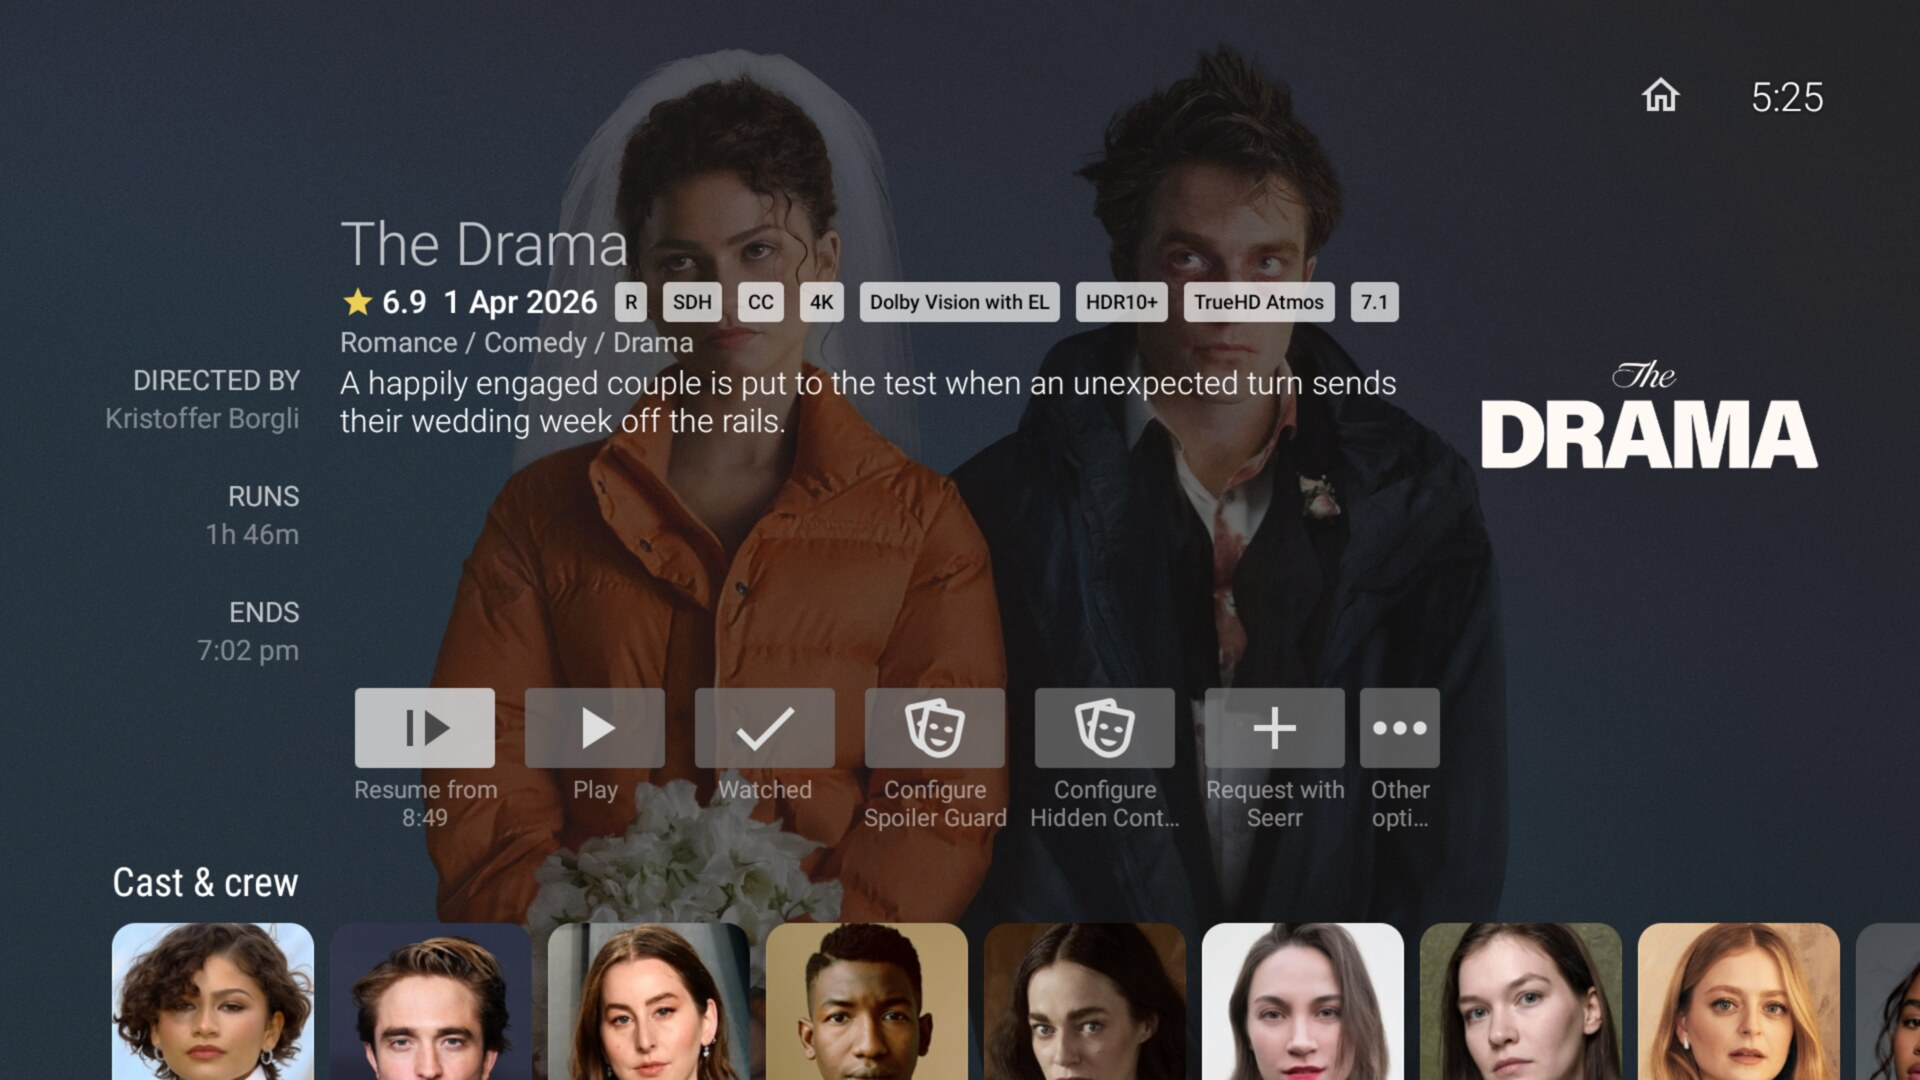
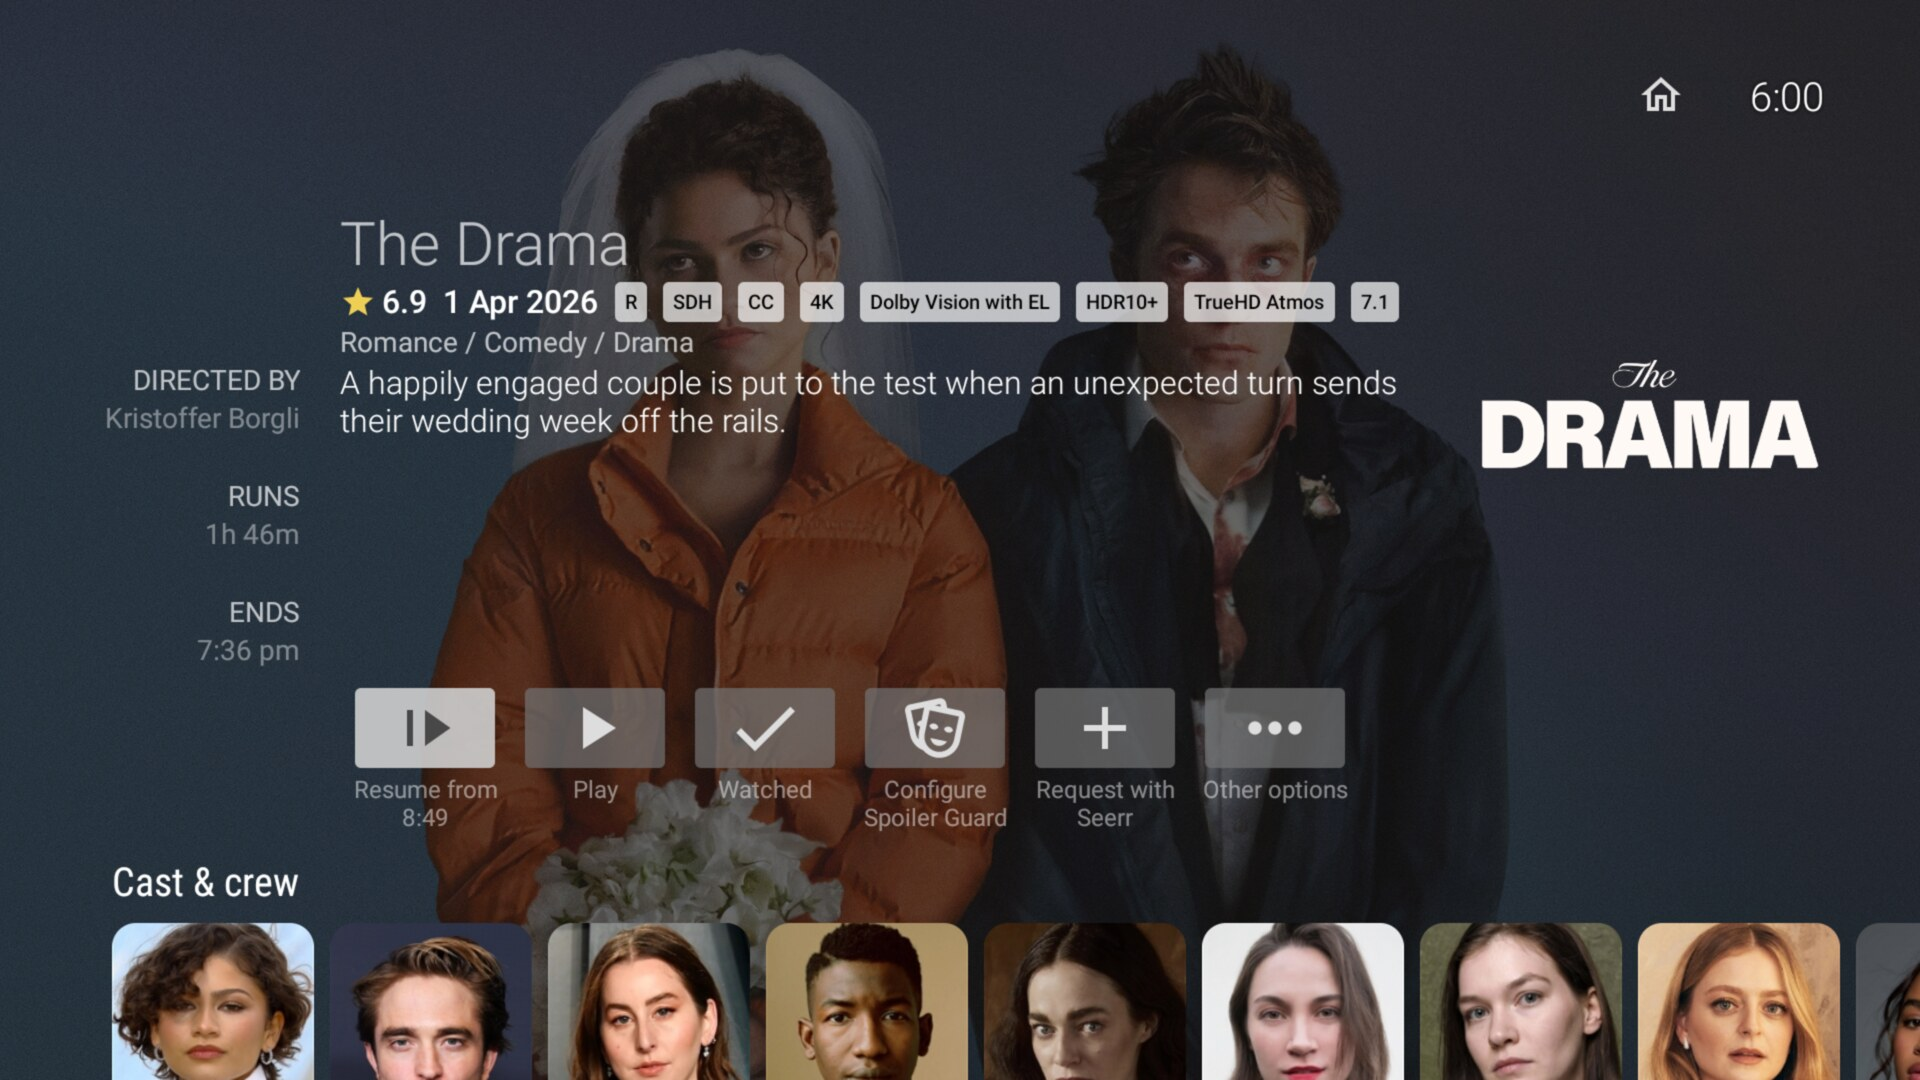
Stop offering Request for owned titles, never clip a button label (#14)
Two user-reported issues on the item detail screen.

A Seerr title linked to a Jellyfin item is in the library whatever Seerr
reports its status as. The cards already resolved that, but the detail
mapper still trusted the raw wire status, so an owned title kept its
Request action.

Contribution labels come from the server and are much longer than the
app's own, so they overflowed the two-line button field and broke
mid-word. Actions are now measured against the real button dimensions
and only placed in the row when they render whole; the rest go to
"Other options".

Changed region(s): [[0.5312, 0.6111, 0.75, 0.7639], [0.9062, 0.0611, 0.9688, 0.1222]]

diff --git a/app/src/main/java/org/jellyfin/androidtv/ui/itemdetail/CanopyItemDetailController.kt b/app/src/main/java/org/jellyfin/androidtv/ui/itemdetail/CanopyItemDetailController.kt
@@ -119,30 +119,24 @@ internal class CanopyItemDetailController(
 		if (value == null || (value.actions.isEmpty() && value.statuses.isEmpty())) {
 			overflowActions = emptyList()
 			fragment.setCanopyActionRow(null)
-			fragment.setCanopyActionButtons(emptyList())
-			fragment.setCanopyMenuActions(emptyList())
+			fragment.setCanopyActions(emptyList(), false)
 			return
 		}
 
 		when (placement) {
 			CanopyActionsPlacement.BUTTONS -> {
 				fragment.setCanopyActionRow(null)
-				fragment.setCanopyMenuActions(emptyList())
 				showInlineButtons(value)
 				return
 			}
 
 			CanopyActionsPlacement.OTHER_OPTIONS -> {
 				fragment.setCanopyActionRow(null)
-				fragment.setCanopyActionButtons(emptyList())
 				showMenuActions(value)
 				return
 			}
 
-			CanopyActionsPlacement.ROW -> {
-				fragment.setCanopyActionButtons(emptyList())
-				fragment.setCanopyMenuActions(emptyList())
-			}
+			CanopyActionsPlacement.ROW -> fragment.setCanopyActions(emptyList(), false)
 		}
 
 		val layout = CanopyActionLayout.create(value.actions)
@@ -186,39 +180,33 @@ internal class CanopyItemDetailController(
 	 * contributions carry no interaction; their state is visible in the
 	 * action dialogs, so they are only exposed via accessibility here.
 	 */
+	/**
+	 * Hands the actions to the details screen, which places as many as fit in
+	 * the button row and sends the rest to "Other options".
+	 */
 	private fun showInlineButtons(value: CanopyItemDetailSurface) {
 		overflowActions = emptyList()
-		val context = fragment.context ?: return
-		val buttonSize = Utils.convertDpToPixel(context, CANOPY_BUTTON_SIZE_DP)
-		val statusDescription = value.statuses.joinToString(separator = " · ") { it.label }
+		fragment.setCanopyActions(canopyActions(value), false)
+	}
 
-		val buttons = value.actions.map { action ->
-			TextUnderButton.create(
-				context,
-				action.icon.drawable,
-				buttonSize,
-				2,
-				action.label,
-			) {
-				coordinator.prepare(action.id)
-			}.apply {
+	/** Renders every action as an entry in the "Other options" popup menu. */
+	private fun showMenuActions(value: CanopyItemDetailSurface) {
+		overflowActions = emptyList()
+		fragment.setCanopyActions(canopyActions(value), true)
+	}
+
+	private fun canopyActions(value: CanopyItemDetailSurface): List<CanopyMenuAction> {
+		val statusDescription = value.statuses.joinToString(separator = " · ") { it.label }
+		return value.actions.map { action ->
+			CanopyMenuAction(
+				label = action.label,
+				iconRes = action.icon.drawable,
 				contentDescription = describedLabel(
 					describedLabel(action.label, action.description),
 					statusDescription.takeIf { it.isNotEmpty() },
-				)
-			}
+				),
+			) { coordinator.prepare(action.id) }
 		}
-		fragment.setCanopyActionButtons(buttons)
-	}
-
-	/** Renders actions as entries in the "Other options" popup menu. */
-	private fun showMenuActions(value: CanopyItemDetailSurface) {
-		overflowActions = emptyList()
-		fragment.setCanopyMenuActions(
-			value.actions.map { action ->
-				CanopyMenuAction(action.label) { coordinator.prepare(action.id) }
-			},
-		)
 	}
 
 	private fun showOverflow() {
@@ -325,8 +313,15 @@ internal fun dispatchCanopyRefresh(
 	if (CanopyRefreshTarget.ITEM_DETAIL_SURFACE in targets) onItemDetailSurface()
 }
 
+/**
+ * A Canopy action the details screen can present either as a button or as an
+ * entry in the overflow menu. The screen decides which, because only it knows
+ * how much room the button row has left.
+ */
 internal class CanopyMenuAction(
 	val label: String,
+	@androidx.annotation.DrawableRes val iconRes: Int,
+	val contentDescription: String,
 	private val onSelected: () -> Unit,
 ) {
 	fun run() = onSelected()

diff --git a/app/src/test/kotlin/integration/canopy/seerr/SeerrRepositoryTests.kt b/app/src/test/kotlin/integration/canopy/seerr/SeerrRepositoryTests.kt
@@ -387,6 +387,23 @@ class SeerrRepositoryTests : FunSpec({
 		results[1].status shouldBe SeerrMediaStatus.PENDING
 	}
 
+	test("details of an owned title are not requestable") {
+		val repository = SeerrRepository(
+			apiWith(
+				// Seerr reports "unknown" yet links a Jellyfin item: the title
+				// is in the library and must not be offered for request.
+				"/JellyfinCanopy/seerr/movie/550" to """
+					{"id": 550, "title": "Owned", "releaseDate": "1999-10-15",
+					 "mediaInfo": {"status": 1, "jellyfinMediaId": "0b67e975-99cb-4bf3-96d3-b13ec50365ff"}}
+				""".trimIndent(),
+			),
+		)
+
+		val details = repository.details(SeerrMediaType.MOVIE, 550).shouldNotBeNull()
+		details.item.status shouldBe SeerrMediaStatus.AVAILABLE
+		details.item.status.requestable shouldBe false
+	}
+
 	test("media status wire mapping") {
 		SeerrMediaStatus.fromWire(null) shouldBe SeerrMediaStatus.NOT_REQUESTED
 		SeerrMediaStatus.fromWire(1) shouldBe SeerrMediaStatus.NOT_REQUESTED

diff --git a/app/src/main/java/org/jellyfin/androidtv/integration/canopy/seerr/SeerrRepository.kt b/app/src/main/java/org/jellyfin/androidtv/integration/canopy/seerr/SeerrRepository.kt
@@ -496,8 +496,11 @@ internal class SeerrRepository(
 				year = (if (mediaType == SeerrMediaType.MOVIE) releaseDate else firstAirDate)
 					?.take(YEAR_LENGTH)?.toIntOrNull(),
 				posterUrl = posterPath?.toTmdbImageUrl(TMDB_POSTER_BASE),
-				status = SeerrMediaStatus.fromWire(mediaInfo?.status),
-				status4k = SeerrMediaStatus.fromWire(mediaInfo?.status4k),
+				// Same effective status the cards use: a title linked to a
+				// Jellyfin item is in the library whatever Seerr reports, and
+				// must not be offered for request again.
+				status = effectiveStatus(mediaInfo?.status, mediaInfo?.jellyfinMediaId),
+				status4k = effectiveStatus(mediaInfo?.status4k, mediaInfo?.jellyfinMediaId4k),
 				jellyfinMediaId = (mediaInfo?.jellyfinMediaId ?: mediaInfo?.jellyfinMediaId4k)?.toUUIDOrNull(),
 			),
 			overview = overview?.takeIf { it.isNotBlank() },

diff --git a/app/src/main/java/org/jellyfin/androidtv/ui/seerr/SeerrItemFragment.kt b/app/src/main/java/org/jellyfin/androidtv/ui/seerr/SeerrItemFragment.kt
@@ -314,6 +314,11 @@ class SeerrItemFragment : Fragment() {
 		imdb?.let { add(getString(R.string.canopy_seerr_rating_imdb, it)) }
 	}.joinToString(separator = " · ")
 
+	/**
+	 * Seasons the library is missing are still worth requesting for a series
+	 * that is only partly present, but a title the library already holds in
+	 * full never is.
+	 */
 	private fun hasRequestableSeasons(details: SeerrItemDetails, is4k: Boolean = false): Boolean =
 		details.item.mediaType == SeerrMediaType.TV && details.seasons.any { it.statusFor(is4k).requestable }
 

diff --git a/app/src/main/java/org/jellyfin/androidtv/ui/itemdetail/FullDetailsFragment.java b/app/src/main/java/org/jellyfin/androidtv/ui/itemdetail/FullDetailsFragment.java
@@ -10,6 +10,11 @@ import android.os.Bundle;
 import android.os.Handler;
 import android.util.DisplayMetrics;
 import android.view.Gravity;
+import android.text.StaticLayout;
+import android.text.TextPaint;
+import android.text.TextUtils;
+import android.util.TypedValue;
+import android.graphics.text.LineBreaker;
 import android.view.KeyEvent;
 import android.view.LayoutInflater;
 import android.view.Menu;
@@ -137,6 +142,17 @@ public class FullDetailsFragment extends Fragment implements RecordingIndicatorV
     private CanopyItemDetailController mCanopyController;
     private final List<TextUnderButton> mCanopyActionButtons = new ArrayList<>();
     private List<CanopyMenuAction> mCanopyMenuActions = new ArrayList<>();
+    // Two Canopy buttons plus the built-in actions the native accounting
+    // keeps visible fit the row without any label being squeezed; more than
+    // that is what clipped labels mid-word. Everything else goes to the
+    // overflow menu.
+    private static final int CANOPY_INLINE_LIMIT = 2;
+    // Mirrors res/layout/text_under_button.xml; a label is only placed on a
+    // button when it renders whole at these dimensions.
+    private static final int BUTTON_LABEL_WIDTH_DP = 85;
+    private static final int BUTTON_LABEL_PADDING_DP = 5;
+    private static final int BUTTON_LABEL_MAX_LINES = 2;
+    private static final float BUTTON_LABEL_TEXT_SP = 12f;
     private ListRow mCanopyActionRow;
 
     private Handler mLoopHandler = new Handler();
@@ -501,52 +517,64 @@ public class FullDetailsFragment extends Fragment implements RecordingIndicatorV
     }
 
     /**
-     * Places Canopy actions as native detail buttons, inserted before the
-     * "Other options" button. The row is rebound in place so it is never
-     * detached while focused.
+     * Places Canopy actions on the details screen.
+     *
+     * As many as fit become buttons beside the built-in ones; the rest go to
+     * "Other options". The row has a fixed budget of visible actions, and a
+     * squeezed button renders its label wrapped and clipped, so the count is
+     * capped rather than letting the row overflow.
+     *
+     * @param forceMenu place every action in the menu regardless of room.
      */
-    void setCanopyActionButtons(@NonNull List<TextUnderButton> buttons) {
+    void setCanopyActions(@NonNull List<CanopyMenuAction> actions, boolean forceMenu) {
         if (mDetailsOverviewRow == null) return;
         MyDetailsOverviewRowPresenter.ViewHolder holder = mDorPresenter.getViewHolder();
 
-        // Mutate the row in place. Rebinding the whole row would clear and
-        // re-add every button, which visibly flashes the action row and moves
-        // buttons the user may already be focused on.
+        // Mutate the row in place: rebinding it would clear and re-add every
+        // button, flashing the row and moving buttons the user may be on.
         for (TextUnderButton button : mCanopyActionButtons) {
             mDetailsOverviewRow.removeAction(button);
             if (holder != null) holder.removeActionView(button);
         }
         mCanopyActionButtons.clear();
 
-        int index = moreButton != null ? mDetailsOverviewRow.indexOfAction(moreButton) : -1;
-        if (index < 0) index = mDetailsOverviewRow.getActions().size();
-        int viewIndex = -1;
-        if (holder != null && moreButton != null) viewIndex = holder.indexOfActionView(moreButton);
-
-        for (TextUnderButton button : buttons) {
-            mDetailsOverviewRow.addAction(index++, button);
-            mCanopyActionButtons.add(button);
-            if (holder != null) {
-                if (viewIndex < 0) {
-                    // No More button yet: append so nothing already placed moves.
-                    holder.addActionView(button, Integer.MAX_VALUE);
-                } else {
-                    holder.addActionView(button, viewIndex++);
-                }
+        // An action becomes a button only when its label renders whole and
+        // the row still has a slot; everything else goes to "Other options".
+        List<CanopyMenuAction> inline = new ArrayList<>();
+        List<CanopyMenuAction> overflow = new ArrayList<>();
+        for (CanopyMenuAction action : actions) {
+            if (!forceMenu && inline.size() < CANOPY_INLINE_LIMIT && labelFitsButton(action.getLabel())) {
+                inline.add(action);
+            } else {
+                overflow.add(action);
             }
         }
 
-        // Canopy actions count towards the row's budget like any other action.
-        // Without this the row overflows its width and the last button is
-        // squeezed until its label breaks mid-word; re-running the native
-        // accounting collapses the lowest-priority actions into "Other
-        // options" exactly as it does for the app's own buttons.
+        int index = moreButton != null ? mDetailsOverviewRow.indexOfAction(moreButton) : -1;
+        if (index < 0) index = mDetailsOverviewRow.getActions().size();
+        int viewIndex = holder != null && moreButton != null ? holder.indexOfActionView(moreButton) : -1;
+
+        int buttonSize = Utils.convertDpToPixel(requireContext(), 40);
+        for (CanopyMenuAction action : inline) {
+            TextUnderButton button = TextUnderButton.create(
+                    requireContext(), action.getIconRes(), buttonSize, 2, action.getLabel(),
+                    v -> action.run());
+            button.setContentDescription(action.getContentDescription());
+            mDetailsOverviewRow.addAction(index++, button);
+            mCanopyActionButtons.add(button);
+            if (holder != null) {
+                if (viewIndex < 0) holder.addActionView(button, Integer.MAX_VALUE);
+                else holder.addActionView(button, viewIndex++);
+            }
+        }
+
+        setCanopyMenuActions(overflow);
         showMoreButtonIfNeeded();
     }
 
     /**
-     * Places Canopy actions inside the "Other options" popup menu, forcing the
-     * button visible when entries exist even if no native action collapsed.
+     * Puts Canopy actions in the "Other options" popup, making the button
+     * visible when entries exist even if no built-in action collapsed.
      */
     void setCanopyMenuActions(@NonNull List<CanopyMenuAction> actions) {
         boolean hadActions = !mCanopyMenuActions.isEmpty();
@@ -555,7 +583,8 @@ public class FullDetailsFragment extends Fragment implements RecordingIndicatorV
         if (!actions.isEmpty() && moreButton.getVisibility() != View.VISIBLE) {
             moreButton.setVisibility(View.VISIBLE);
             if (mDorPresenter.getViewHolder() != null) mDorPresenter.getViewHolder().setItem(mDetailsOverviewRow);
-        } else if (actions.isEmpty() && hadActions && collapsedOptions == 0 && moreButton.getVisibility() == View.VISIBLE) {
+        } else if (actions.isEmpty() && hadActions && collapsedOptions == 0
+                && moreButton.getVisibility() == View.VISIBLE) {
             moreButton.setVisibility(View.GONE);
             if (mDorPresenter.getViewHolder() != null) mDorPresenter.getViewHolder().setItem(mDetailsOverviewRow);
         }
@@ -564,6 +593,39 @@ public class FullDetailsFragment extends Fragment implements RecordingIndicatorV
     @NonNull
     List<CanopyMenuAction> getCanopyMenuActions() {
         return mCanopyMenuActions;
+    }
+
+    /**
+     * Whether a label renders whole on a detail button.
+     *
+     * A button label is a fixed-width, two-line field. A label that does not
+     * fit gets clipped, which reads as a broken control, so an action whose
+     * label cannot be shown in full belongs in the overflow menu instead.
+     * Measured rather than guessed, because contribution labels come from the
+     * server and vary by feature, locale and translation.
+     */
+    private boolean labelFitsButton(String label) {
+        if (label == null || label.isEmpty()) return true;
+
+        TextPaint paint = new TextPaint();
+        paint.setAntiAlias(true);
+        paint.setTextSize(TypedValue.applyDimension(TypedValue.COMPLEX_UNIT_SP,
+                BUTTON_LABEL_TEXT_SP, getResources().getDisplayMetrics()));
+
+        int width = Utils.convertDpToPixel(requireContext(),
+                BUTTON_LABEL_WIDTH_DP - BUTTON_LABEL_PADDING_DP * 2);
+        StaticLayout layout = StaticLayout.Builder
+                .obtain(label, 0, label.length(), paint, width)
+                .setMaxLines(BUTTON_LABEL_MAX_LINES)
+                .setEllipsize(TextUtils.TruncateAt.END)
+                .setBreakStrategy(LineBreaker.BREAK_STRATEGY_SIMPLE)
+                .setHyphenationFrequency(LineBreaker.HYPHENATION_FREQUENCY_NONE)
+                .build();
+
+        for (int line = 0; line < layout.getLineCount(); line++) {
+            if (layout.getEllipsisCount(line) > 0) return false;
+        }
+        return layout.getLineCount() <= BUTTON_LABEL_MAX_LINES;
     }
 
     void setCanopyActionRow(@Nullable ListRow row) {

diff --git a/docs/developers-androidtv.md b/docs/developers-androidtv.md
@@ -209,6 +209,30 @@ sunset date and then fails with no warning.
 a **developer** signal, not a user-facing one: a viewer cannot act on it, so it
 must never reach the UI or repeat per request.
 
+### T10b — A control never shows a clipped label
+
+Detail-row buttons are a fixed-width, two-line field. Contribution labels come
+from the *server* and are far longer than the app's own one-word labels
+("Play", "Watched"), so they overflow: first wrapping oddly, then breaking
+**mid-word** into things like `Con figure`.
+
+Two rules, both enforced in `FullDetailsFragment`:
+
+1. **Measure, do not guess.** An action becomes a button only when its label
+   renders whole at the button's real dimensions (`labelFitsButton` builds a
+   `StaticLayout` against the same width, size and line count as
+   `text_under_button.xml`). Labels vary by feature, locale and translation,
+   so a hardcoded length limit would be wrong somewhere.
+2. **Overflow is a destination, not a failure.** Anything that does not fit —
+   or does not fit *the remaining slots* — goes to "Other options" rather than
+   being squeezed into the row.
+
+Injected actions must also re-run the host's own overflow accounting
+(`showMoreButtonIfNeeded`) so built-in actions collapse around them. Reserve
+slots first and let that accounting rebalance: measuring free space at
+resolve time always concludes there is none, because nothing has collapsed
+yet.
+
 ### T11 — A control that carries state must announce it
 
 The shared `Checkbox`/`RadioButton` were drawn but not described: no
